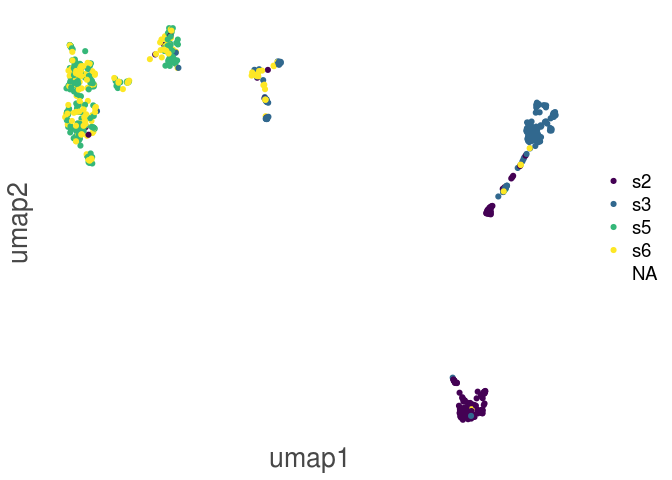
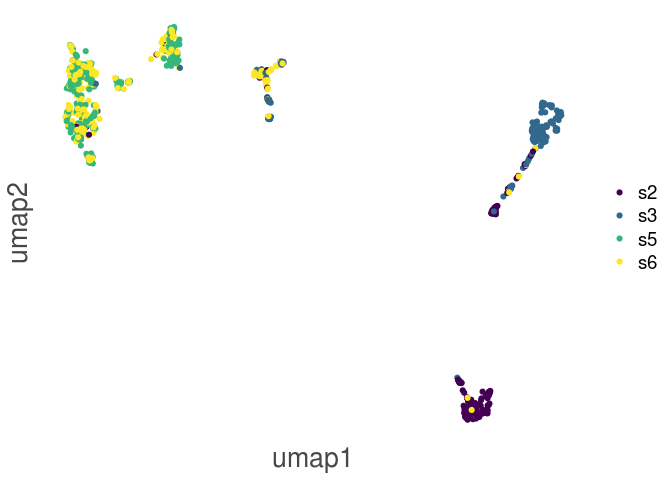
documentation update

diff --git a/copykit_workflow.md b/copykit_workflow.md
@@ -323,10 +323,8 @@ First we will add that information to the metadata
 # saving to a data.frame
 spatial_info <- as.data.frame(SummarizedExperiment::colData(breast_tumor))
 # removing the extra information
-spatial_info$sample_edited <- stringr::str_extract(spatial_info$sample,
-                                                   "tn20_[0-9]_s[0-9]")
-spatial_info$spatial_location <- stringr::str_extract(spatial_info$sample_edited,
-                                                      "(s[0-9])")
+spatial_info$spatial_location <- stringr::str_extract(spatial_info$sample,
+                                                   "(s[0-9]){1}")
 
 SummarizedExperiment::colData(breast_tumor)$spatial_location <- spatial_info$spatial_location
 ```
@@ -341,8 +339,6 @@ plotUmap(breast_tumor,
     ## Coloring by: spatial_location
 
     ## Plotting Umap.
-
-    ## Warning: Removed 281 rows containing missing values (geom_point).
 
 ![](copykit_workflow_files/figure-gfm/plot_umap_label-1.png)<!-- -->
 
